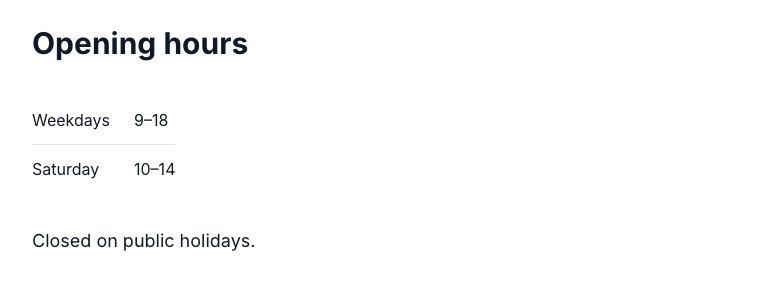
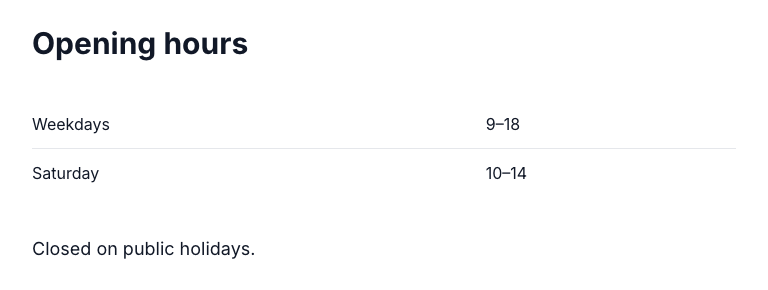
fix(astro-starter): a bare table in rich text scrolls in a named, focusable region and keeps its table semantics
publicHtml wraps each outermost table no table block holds in a .table-scroll region (role=region, tabindex=0), named by its caption's id or text, else ui-string table.label (16 locales). The display:block rule on the table is gone. The prose table fixtures hold the wrapped markup; their 6 darwin shots are rebaselined (ORK OK) and the 390 phone check asserts the region scrolls and the table stays display:table.

diff --git a/packages/astro-kit/tests/starter-body-tables.test.ts b/packages/astro-kit/tests/starter-body-tables.test.ts
@@ -1,0 +1,62 @@
+import { readdir, readFile } from 'node:fs/promises'
+import { join } from 'node:path'
+import ts from 'typescript'
+import { describe, expect, it } from 'vitest'
+
+const STARTER = join(import.meta.dirname, '..', '..', '..', 'templates', 'astro-starter')
+
+// The starter's own file, compiled here: imported, it would be read under the starter's tsconfig, which extends astro's
+// (not installed in the template). It imports nothing, so it runs as it is.
+const source = await readFile(join(STARTER, 'src', 'lib', 'body-tables.ts'), 'utf8')
+const compiled = ts.transpileModule(source, { compilerOptions: { module: ts.ModuleKind.CommonJS, target: ts.ScriptTarget.ES2022 } }).outputText
+const loaded = { exports: {} as { scrollingTables: (html: string, label: string) => string } }
+// eslint-disable-next-line no-new-func -- the starter's module, read from its file
+new Function('module', 'exports', compiled)(loaded, loaded.exports)
+const { scrollingTables } = loaded.exports
+const region = (name: string) => `<div class="table-scroll" role="region" tabindex="0" ${name}>`
+const TABLE = '<table><tr><td>a</td></tr></table>'
+
+describe('a table in rich text with no table block around it scrolls in a named region', () => {
+  it('wraps a bare table, named by the label, and leaves the rest as written', () => {
+    expect(scrollingTables(`<p>x</p>${TABLE}<p>y</p>`, 'Table')).toBe(`<p>x</p>${region('aria-label="Table"')}${TABLE}</div><p>y</p>`)
+    expect(scrollingTables('<p>no table</p>', 'Table')).toBe('<p>no table</p>')
+  })
+
+  it('is named by the caption: its id where it has one, else its text', () => {
+    const captioned = '<table>\n<caption>Plans <b>"2026"</b> &amp; prices</caption><tr><td>a</td></tr></table>'
+    expect(scrollingTables(captioned, 'Table')).toBe(`${region('aria-label="Plans &quot;2026&quot; &amp; prices"')}${captioned}</div>`)
+    const withId = '<table><caption id="plans">Plans</caption><tr><td>a</td></tr></table>'
+    expect(scrollingTables(withId, 'Table')).toBe(`${region('aria-labelledby="plans"')}${withId}</div>`)
+  })
+
+  it('leaves a table block\'s table (its figure scrolls already) and a table already in a region', () => {
+    const block = `<figure class="wp-block-table is-style-stripes">${TABLE}<figcaption>c</figcaption></figure>`
+    expect(scrollingTables(block, 'Table')).toBe(block)
+    const once = scrollingTables(TABLE, 'Table')
+    expect(scrollingTables(once, 'Table')).toBe(once)
+  })
+
+  it('wraps only the outermost of nested tables, and each of two in a row', () => {
+    const nested = `<table><tr><td>${TABLE}</td></tr></table>`
+    expect(scrollingTables(nested, 'Table')).toBe(`${region('aria-label="Table"')}${nested}</div>`)
+    expect(scrollingTables(`${TABLE}${TABLE}`, 'T')).toBe(`${region('aria-label="T"')}${TABLE}</div>${region('aria-label="T"')}${TABLE}</div>`)
+  })
+
+  it('a table after a closed table block is wrapped (the block does not hold it)', () => {
+    const block = `<figure class="wp-block-table">${TABLE}</figure>`
+    expect(scrollingTables(`${block}${TABLE}`, 'Table')).toBe(`${block}${region('aria-label="Table"')}${TABLE}</div>`)
+  })
+
+  it('every page body takes it: publicHtml wraps with the site\'s table.label, which every locale names', async () => {
+    const links = await readFile(join(STARTER, 'src', 'lib', 'links.ts'), 'utf8')
+    expect(links).toContain("if (result.includes('<table')) result = scrollingTables(result, (await getStrings())('table.label'))")
+    const dir = join(STARTER, '.contentrain', 'content', 'site', 'ui-strings')
+    const locales = await readdir(dir)
+    expect(locales.length).toBeGreaterThan(1)
+    for (const file of locales) expect(JSON.parse(await readFile(join(dir, file), 'utf8'))['table.label'], file).toBeTruthy()
+    // The table keeps its display (no `display: block` on it); the region scrolls.
+    const css = await readFile(join(STARTER, 'src', 'styles', 'wp-blocks.css'), 'utf8')
+    expect(css).toContain('.prose .table-scroll { overflow-x: auto;')
+    expect(css).not.toMatch(/table[^{]*\{[^}]*display:\s*block/)
+  })
+})

diff --git a/templates/astro-starter/src/lib/body-tables.ts b/templates/astro-starter/src/lib/body-tables.ts
@@ -1,0 +1,65 @@
+// Tables inside rich text. A table with no table block around it (the classic editor's, or hand-written) is wrapped in
+// a region that scrolls, so a wide one stays inside the column instead of widening the page (a phone zooms out to a
+// page wider than its screen, and taps miss). The table keeps its own display, and with it its table semantics in
+// every screen reader; the region is focusable so a keyboard can scroll it, and is named by the table's caption, else
+// by `label`. A table block's figure scrolls already (wp-blocks.css) and is left as it is.
+
+const TAG = /<(\/?)(table|figure|div)\b([^>]*)>/gi
+const CLASS = /\sclass\s*=\s*(?:"([^"]*)"|'([^']*)')/i
+const ID = /\sid\s*=\s*(?:"([^"]*)"|'([^']*)')/i
+const CAPTION = /^\s*<caption\b([^>]*)>([\s\S]*?)<\/caption>/i
+
+const classes = (attributes: string) => { const m = CLASS.exec(attributes); return (m?.[1] ?? m?.[2] ?? '').split(/\s+/) }
+const attributeText = (text: string) => text.replaceAll('&', '&amp;').replaceAll('"', '&quot;')
+const plain = (html: string) => html.replace(/<[^>]*>/g, ' ').replace(/\s+/g, ' ').trim()
+
+/** The region's name: the caption's own id, else the caption's text, else `label`. */
+function named(table: string, open: string, label: string): string {
+  const caption = CAPTION.exec(table.slice(open.length))
+  if (caption) {
+    const id = ID.exec(caption[1]!)
+    if (id) return `aria-labelledby="${attributeText(id[1] ?? id[2]!)}"`
+    const text = plain(caption[2]!)
+    // The caption's text as written: entities stay entities, a quote is escaped for the attribute.
+    if (text) return `aria-label="${text.replaceAll('"', '&quot;')}"`
+  }
+  return `aria-label="${attributeText(label)}"`
+}
+
+/**
+ * The HTML with every outermost table that no table block or scroll region holds wrapped in
+ * `<div class="table-scroll" role="region" tabindex="0" aria-label…>`. A table inside a table is left in its parent.
+ */
+export function scrollingTables(html: string, label: string): string {
+  // Open figures and divs, each marked when it already scrolls its table (a table block, or a region from an earlier pass).
+  const open: Array<{ tag: string, scrolls: boolean }> = []
+  let depth = 0
+  let start = -1
+  let startTag = ''
+  let out = ''
+  let copied = 0
+  for (const match of html.matchAll(TAG)) {
+    const [whole, closing, name, attributes] = match as unknown as [string, string, string, string]
+    const tag = name.toLowerCase()
+    const at = match.index
+    if (tag !== 'table') {
+      if (depth > 0) continue
+      if (!closing) open.push({ tag, scrolls: tag === 'figure' ? classes(attributes).includes('wp-block-table') : classes(attributes).includes('table-scroll') })
+      else for (let i = open.length - 1; i >= 0; i--) if (open[i]!.tag === tag) { open.splice(i); break }
+      continue
+    }
+    if (!closing) {
+      if (depth++ === 0 && !open.some(element => element.scrolls)) { start = at; startTag = whole }
+      continue
+    }
+    if (depth === 0) continue
+    if (--depth === 0 && start !== -1) {
+      const end = at + whole.length
+      const table = html.slice(start, end)
+      out += `${html.slice(copied, start)}<div class="table-scroll" role="region" tabindex="0" ${named(table, startTag, label)}>${table}</div>`
+      copied = end
+      start = -1
+    }
+  }
+  return copied === 0 ? html : out + html.slice(copied)
+}

diff --git a/templates/astro-starter/src/lib/links.ts b/templates/astro-starter/src/lib/links.ts
@@ -12,8 +12,9 @@ import { getCollection, getEntry, type CollectionEntry } from 'astro:content'
 import { safeUrl } from '../components/kit/_shared/safe-url'
 import { servedPath, underBase, withBase, withoutBase } from './base'
 import type { NavItem } from '../components/kit/_shared/types'
-import { byId, getRedirects, getSite, pageHref, postHref, resolve, termHref } from './content'
+import { byId, getRedirects, getSite, getStrings, pageHref, postHref, resolve, termHref } from './content'
 import { optimizedImages } from './body-images'
+import { scrollingTables } from './body-tables'
 import { entriesOf, entryById, entryHref, termHref as customTermHref, termsById } from './custom'
 import { siteConfig } from '../site.config'
 import { routeTable } from './site-routes'
@@ -217,7 +218,8 @@ function mediaText(html: string, index: MediaIndex): string {
 
 /**
  * Rich text made public: internal links become site paths, links to what is not public become their text,
- * images without an alt take their media library entry's, and local raster images are served optimized.
+ * images without an alt take their media library entry's, local raster images are served optimized, and a table no
+ * table block holds scrolls in its own region.
  */
 export async function publicHtml(html: string): Promise<string>
 export async function publicHtml(html: string | undefined): Promise<string | undefined>
@@ -236,6 +238,7 @@ export async function publicHtml(html: string | undefined): Promise<string | und
       return href === stored ? anchor : `<a${attributes.replace(HREF, `href="${encode(href)}"`)}>${inner}</a>`
     })
   }
+  if (result.includes('<table')) result = scrollingTables(result, (await getStrings())('table.label'))
   return result.includes('<img') ? optimizedImages(mediaText(result, await media())) : result
 }
 

diff --git a/templates/astro-starter/src/styles/wp-blocks.css b/templates/astro-starter/src/styles/wp-blocks.css
@@ -265,10 +265,12 @@
 .prose .wp-block-table { overflow-x: auto; margin-block: 2em; }
 .prose .wp-block-table table { margin: 0; }
 .prose .wp-block-table.is-style-stripes tbody tr:nth-child(odd) { background: var(--color-surface-muted); }
-/* A table with no table block around it (the classic editor's, or hand-written) scrolls in its own box: a narrow one
-   keeps its content width, a wide one stays inside the column instead of widening the page (on a phone, a page wider
-   than the screen is zoomed out and its taps miss). */
-.prose table:not(.wp-block-table table) { display: block; width: max-content; max-width: 100%; overflow-x: auto; }
+/* A table with no table block around it (the classic editor's, or hand-written) is wrapped in a scroll region when the
+   page is built (lib/body-tables.ts): a wide one stays inside the column instead of widening the page, and the table
+   keeps its own display, so screen readers still read it as a table. The region takes focus to scroll by keyboard. */
+.prose .table-scroll { overflow-x: auto; margin-block: 2em; }
+.prose .table-scroll table { margin: 0; }
+.prose .table-scroll:focus-visible { outline: 2px solid var(--color-accent); outline-offset: 2px; }
 .prose .wp-block-code { border-radius: 0.5rem; }
 .prose .wp-block-verse { font-family: var(--font-serif); white-space: pre-wrap; }
 .prose .wp-block-file { display: flex; flex-wrap: wrap; align-items: center; gap: 1em; }
